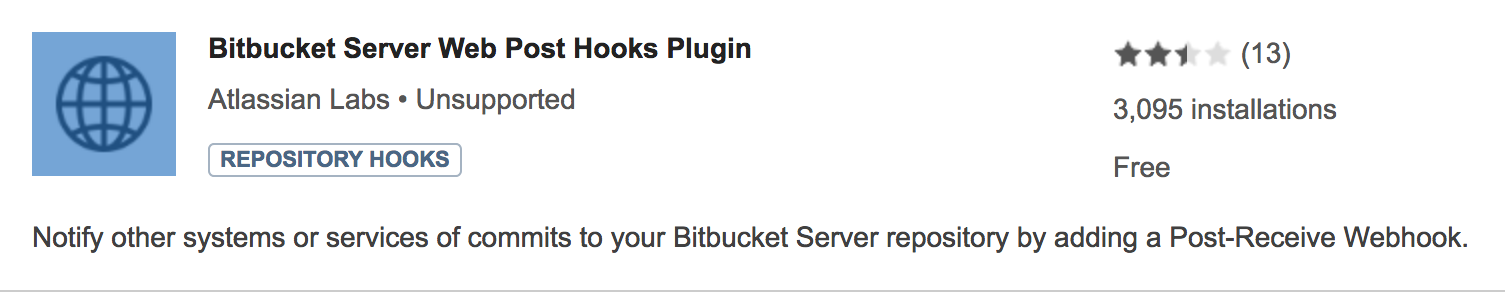
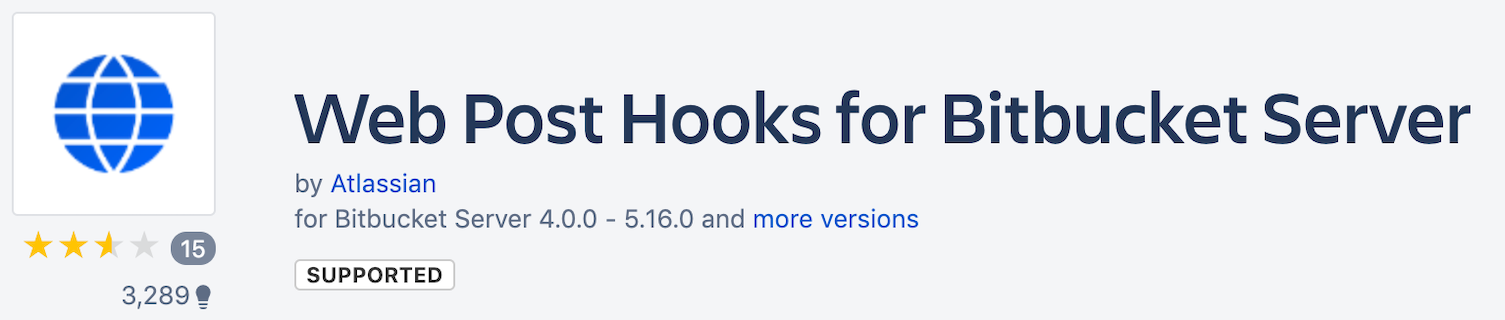
Update Bitbucket Server webhooks plugin details

diff --git a/content/source/docs/enterprise/vcs/bitbucket-server.html.md b/content/source/docs/enterprise/vcs/bitbucket-server.html.md
@@ -23,10 +23,10 @@ TFE uses webhooks to get new configurations. To support this, Bitbucket Server n
 
 1. Open your Bitbucket server instance in your browser and log in as an admin user.
 2. Go to the "Manage add-ons" page. You can click the gear icon in the upper right corner and then use the "Manage add-ons" link in the sidebar, or go directly to `https://<BITBUCKET INSTANCE HOSTNAME>/plugins/servlet/upm`.
-3. Look for an add-on named "Bitbucket Server Web Post Hooks Plugin," and make sure it is installed and enabled. The plugin is disabled by default. Clicking `Enabled` will toggle the plugin on.
+3. Look for an add-on named "Web Post Hooks for Bitbucket Server", and make sure it is installed and enabled. The plugin is disabled by default. Clicking `Enabled` will toggle the plugin on.
 4. If the plugin isn't present, click "Find new add-ons" in the sidebar navigation. Search for the plugin by name and install it.
 
-    Make sure to install the correct plugin. TFE is designed to work with the [Bitbucket Server Web Post Hooks Plugin published by Atlassian Labs.](https://marketplace.atlassian.com/plugins/com.atlassian.stash.plugin.stash-web-post-receive-hooks-plugin/server/overview)
+    Make sure to install the correct plugin. TFE is designed to work with [Web Post Hooks for Bitbucket Server by Atlassian ](https://marketplace.atlassian.com/apps/1211539/web-post-hooks-for-bitbucket-server?hosting=server&tab=overview).
 
     ![Atlassian Marketplace screenshot: The Atlassian Labs Bitbucket Server Web Post Hooks Plugin](./images/bitbucket-server-webhooks-plugin.png)
 
